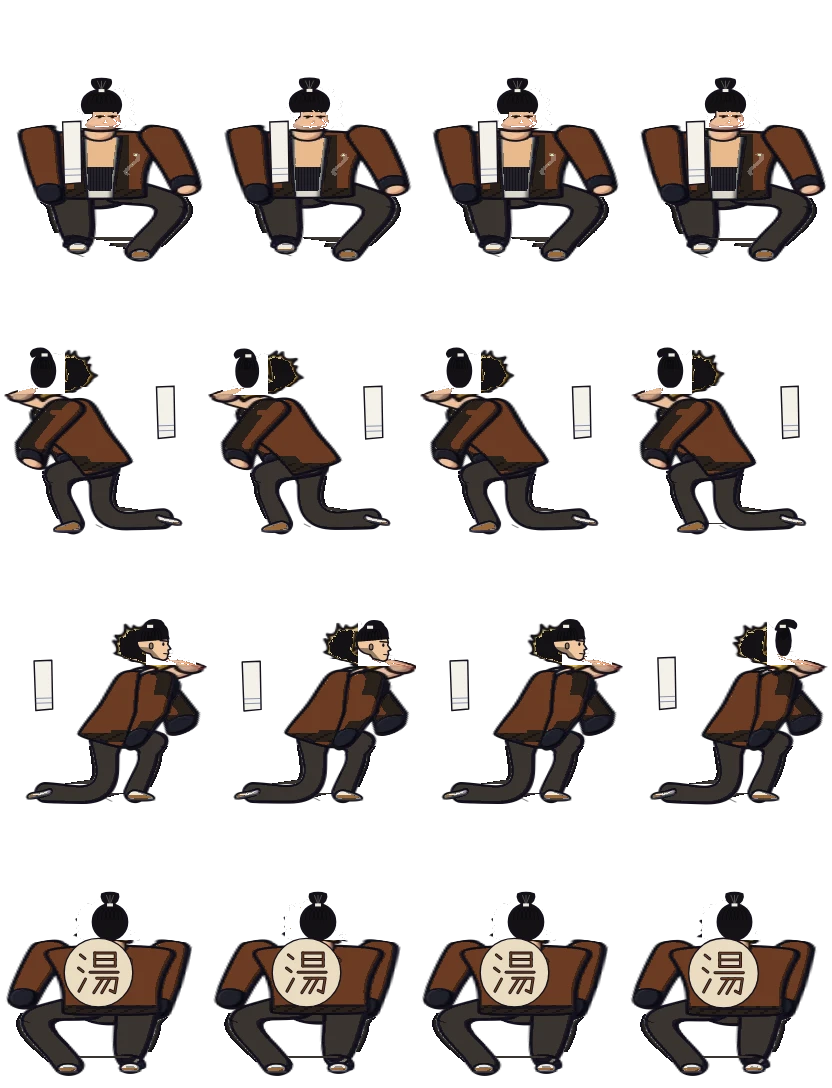
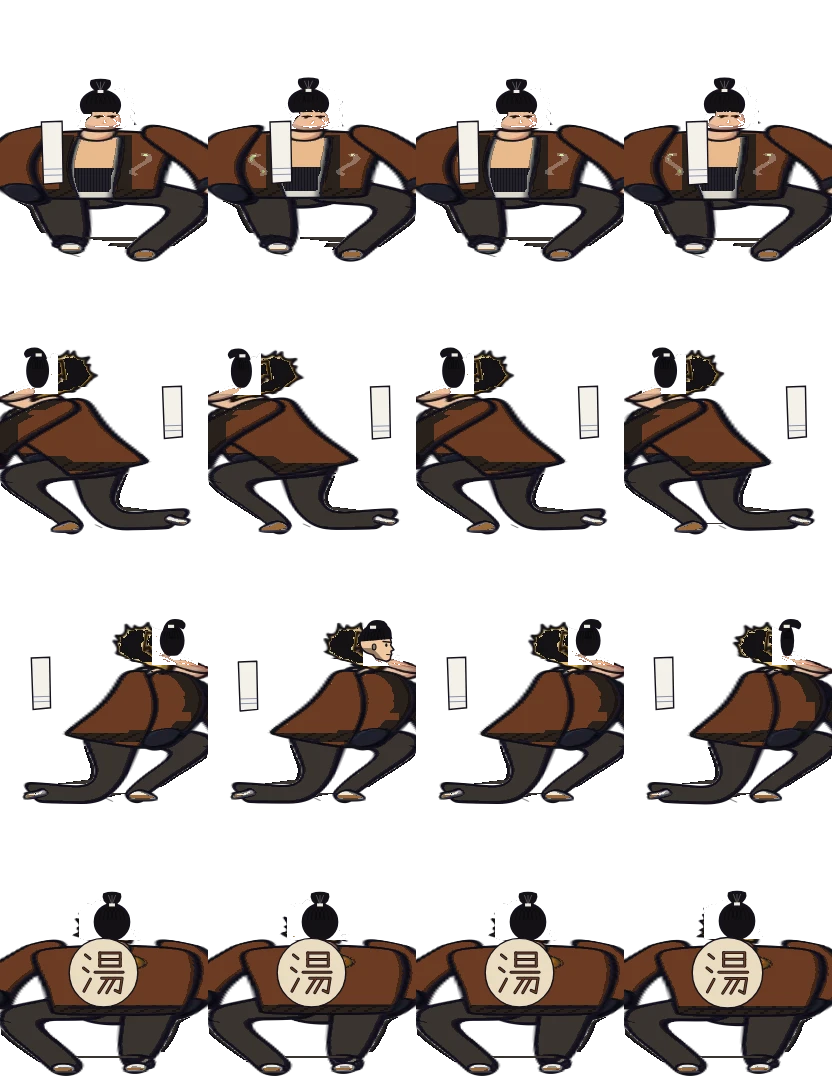
v6.5.60 Nails: Gōda bulked to sumo size (ex-ōzeki belly and shoulders, wider than Flip)

diff --git a/tools/yk/yk.js b/tools/yk/yk.js
@@ -92,7 +92,7 @@
       var d0 = tx.getImageData(0, 0, w, h).data, ya = h, yb = 0, xa = w, xb = 0;
       for (var yy = 0; yy < h; yy++) for (var xx = 0; xx < w; xx++) if (d0[(yy * w + xx) * 4 + 3] > 60) { if (yy < ya) ya = yy; if (yy > yb) yb = yy; if (xx < xa) xa = xx; if (xx > xb) xb = xx; }
       var cxm = (xa + xb) / 2, HH = Math.max(1, yb - ya); x.imageSmoothingEnabled = true;
-      for (var ry = 0; ry < h; ry++) { var q = (ry - ya) / HH, p = q < 0.17 ? 0.12 : q < 0.24 ? 0.12 + (q - 0.17) / 0.07 * 0.88 : q < 0.5 ? 1 - (q - 0.24) * 0.6 : sideF ? Math.max(0.1, 0.84 - (q - 0.5) * 3.2) : q < 0.9 ? 0.84 - (q - 0.5) * 0.9 : 0.48;
+      for (var ry = 0; ry < h; ry++) { var q = (ry - ya) / HH, p = spec.sumo ? (q < 0.16 ? 0.1 : q < 0.26 ? 0.1 + (q - 0.16) / 0.1 * 0.7 : q < 0.66 ? 0.8 + 0.42 * Math.sin(Math.PI * (q - 0.26) / 0.4) : sideF ? Math.max(0.1, 0.8 - (q - 0.66) * 2.4) : Math.max(0.42, 0.8 - (q - 0.66) * 1.1)) : q < 0.17 ? 0.12 : q < 0.24 ? 0.12 + (q - 0.17) / 0.07 * 0.88 : q < 0.5 ? 1 - (q - 0.24) * 0.6 : sideF ? Math.max(0.1, 0.84 - (q - 0.5) * 3.2) : q < 0.9 ? 0.84 - (q - 0.5) * 0.9 : 0.48;
         var s = 1 + spec.bulk * p, nw = w * s; x.drawImage(t0, 0, ry, w, 1, cxm - cxm * s, ry, nw, 1); }
       src = cv; sx = 0; sy = 0; cv = document.createElement('canvas'); cv.width = w; cv.height = h; x = cv.getContext('2d', { willReadFrequently: true }); }
     x.drawImage(src, sx, sy, w, h, 0, 0, w, h);
@@ -339,7 +339,7 @@
     shirt: 'irezumi', hara: 0.6, haraCol: '#efe9dc', bag: 3, geta: { wood: '#a87a46', strap: '#1d1b22' }, hair: 'slick', hairCol: '#1a1714', band: '#f2ede0' };
   /* Gōda Daizō: the old ōzeki. Built like a wall, an ōichō top-knot, a boiler-keeper's brown hanten over a bare chest, a black haramaki where the mawashi was,
    * a blue-striped tenugui over one shoulder, big geta */
-  SPEC.goda = { base: 'punk', glove: 1, bulk: 1.0, bagSide: 0.5, pal: { 3: tri('#141216'), 4: tri('#6b3b22'), 5: tri('#e9b98c'), 6: tri('#3a3530') }, happi: { eri: '#2a211c', hemCol: '#2a211c' }, crest: { k: 'yu', col: '#e9dcc0', ink: '#6b3b22' },
+  SPEC.goda = { base: 'punk', glove: 1, bulk: 1.5, sumo: 1, bagSide: 0.5, pal: { 3: tri('#141216'), 4: tri('#6b3b22'), 5: tri('#e9b98c'), 6: tri('#3a3530') }, happi: { eri: '#2a211c', hemCol: '#2a211c' }, crest: { k: 'yu', col: '#e9dcc0', ink: '#6b3b22' },
     shirt: 'bare', hara: 0.55, haraCol: '#22202a', bag: 6, geta: { wood: '#9a6a3a', strap: '#efe9dc' }, hair: 'slick', hairCol: '#141216', mage: 'oicho', towel: '#f4f1ea' };
   /* the West Street stall's two accessories, worn over the yankii look: tinted shades / a leopard hachimaki with leopard coat lining */
   SPEC.ryoS = Object.assign({}, SPEC.ryo, { shades: 1, shadeQ: 0.0 }); SPEC.aoiS = Object.assign({}, SPEC.aoi, { shades: 1 });
